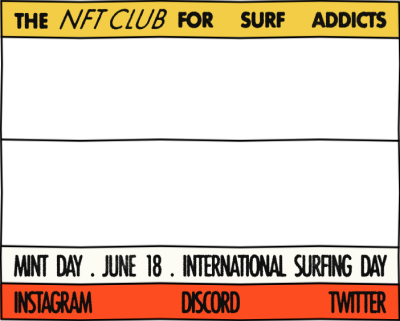
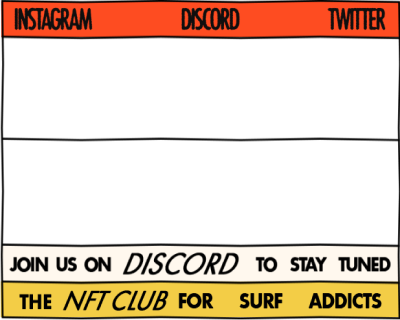
Atualização surf

diff --git a/assets/css/styles.scss b/assets/css/styles.scss
@@ -109,8 +109,9 @@ html {
         width: 100%;
         position: relative;
         left: -1px;
-        top: -3px;
         z-index: 1;
+        top: -1px;
+
     }
 
     @keyframes animationBackground {
@@ -129,7 +130,7 @@ html {
         width: 135px;
         height: 48px;
         position: absolute;
-        bottom: 0px;
+        top: 0px;
         left: 14px;
     }
 
@@ -138,8 +139,9 @@ html {
         width: 135px;
         height: 48px;
         position: absolute;
-        bottom: 0px;
+        top: 0px;
         left: 257px;
+
     }
 
     .twwiter {
@@ -147,7 +149,7 @@ html {
         width: 111px;
         height: 48px;
         position: absolute;
-        bottom: 0px;
+        top: 0px;
         right: 9px;
     }
 
@@ -359,8 +361,10 @@ html {
         left: 50.24%;
 
         img {
-            width: 100%;
+            width: 101%;
             height: 100%;
+            left: -1px;
+            position: relative;
         }
     }
 

diff --git a/assets/css/styles.css b/assets/css/styles.css
@@ -124,8 +124,8 @@ html {
   width: 100%;
   position: relative;
   left: -1px;
-  top: -3px;
   z-index: 1;
+  top: -1px;
 }
 
 @-webkit-keyframes animationBackground {
@@ -151,7 +151,7 @@ html {
   width: 135px;
   height: 48px;
   position: absolute;
-  bottom: 0px;
+  top: 0px;
   left: 14px;
 }
 
@@ -160,7 +160,7 @@ html {
   width: 135px;
   height: 48px;
   position: absolute;
-  bottom: 0px;
+  top: 0px;
   left: 257px;
 }
 
@@ -169,7 +169,7 @@ html {
   width: 111px;
   height: 48px;
   position: absolute;
-  bottom: 0px;
+  top: 0px;
   right: 9px;
 }
 
@@ -372,8 +372,10 @@ html {
     left: 50.24%;
   }
   .stroke img {
-    width: 100%;
+    width: 101%;
     height: 100%;
+    left: -1px;
+    position: relative;
   }
   .container-home .molduraGeral {
     width: 353px;
